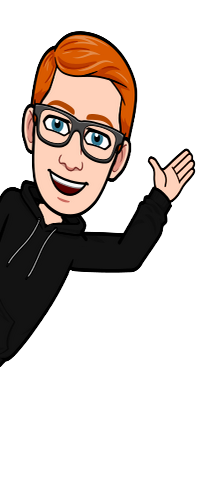
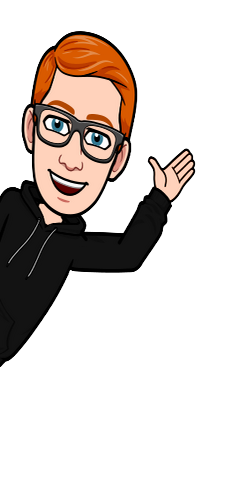
Updated width

diff --git a/README.md b/README.md
@@ -1,6 +1,6 @@
 [website]: https://nidolai.me
 
-<img align="left" width="210" height="500" alt="Nidolai" src="./assets/AvatarHi.png"/>
+<img align="left" width="250" height="500" alt="Nidolai" src="./assets/AvatarHi.png"/>
 
 ### Hi I'm Nicolai - aka [Nidolai][website] :wave:
 
